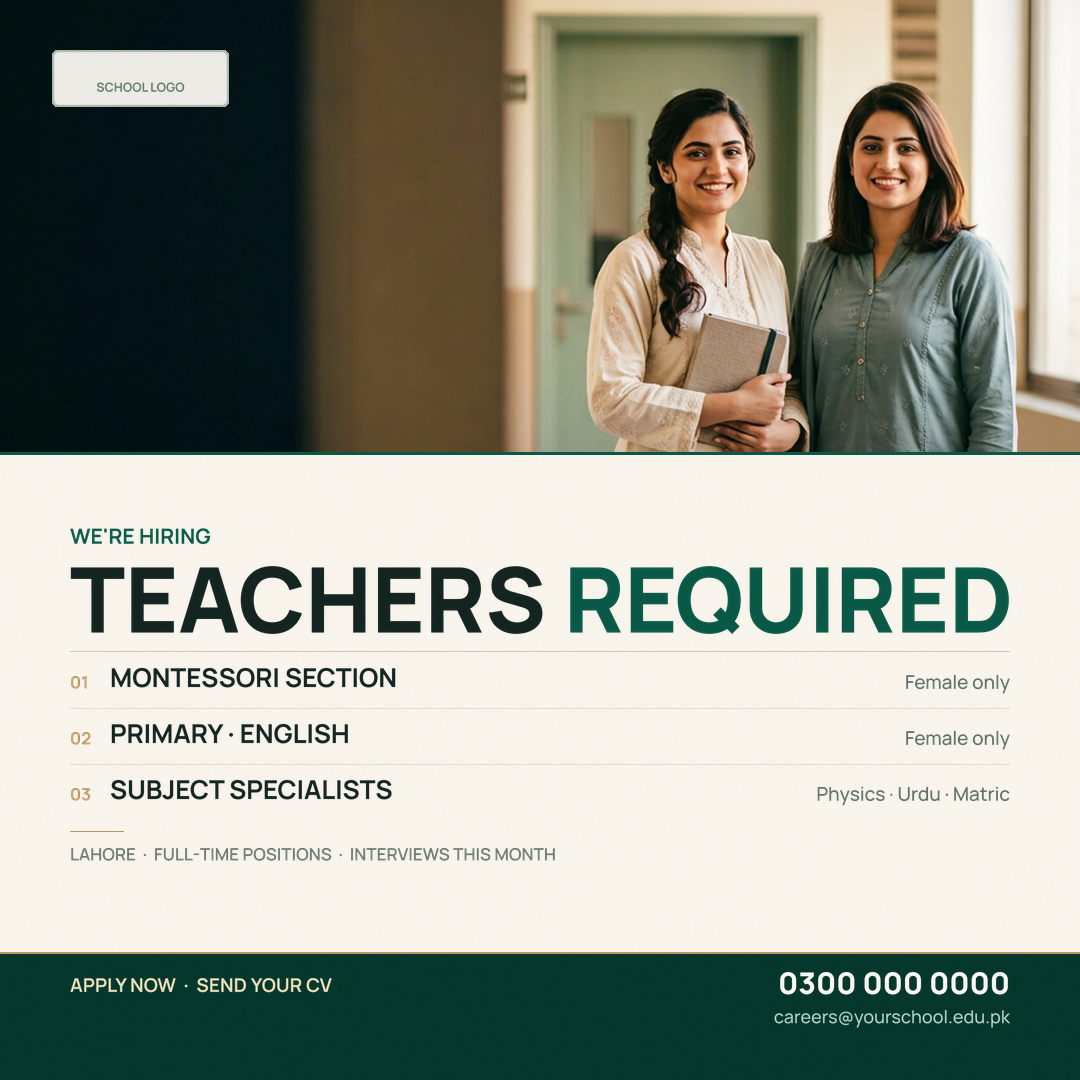
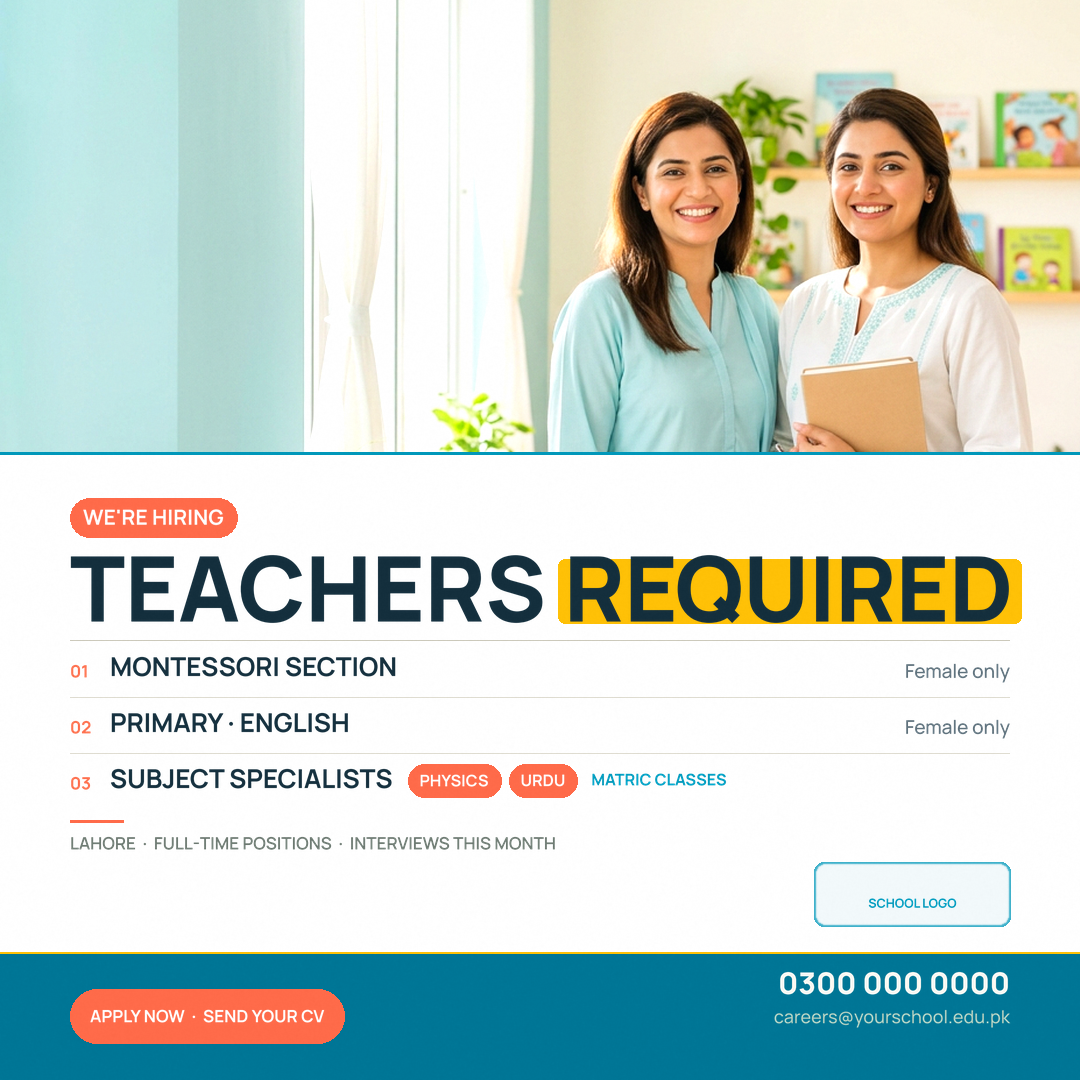
Brighten recruitment ad: high-key photo, teal/coral/sunshine palette, colour-blocked headline
- new sunlit classroom plate (plate_bright.png)
- kicker pill, yellow highlight behind REQUIRED, coral subject chips, CTA button
- deferred shape painting so pills follow the centred copy

diff --git a/posters/hiring_v4.py b/posters/hiring_v4.py
@@ -12,22 +12,25 @@ import render as R
 import typography as T
 
 HERE = os.path.dirname(os.path.abspath(__file__))
-OUT = os.path.join(HERE, "hiring_v2")
+OUT = os.path.join(HERE, "hiring")
 
-CREAM = (0.976, 0.961, 0.930)
-INK = (0.078, 0.145, 0.129)
-EMERALD = (0.039, 0.349, 0.278)
-EMERALD_DEEP = (0.023, 0.216, 0.176)
-MUTED = (0.365, 0.427, 0.396)
-GOLD = (0.729, 0.596, 0.380)
-FOOT_CREAM = (0.898, 0.847, 0.702)
+WHITE = (1.000, 1.000, 1.000)          # panel field
+INK = (0.078, 0.184, 0.239)            # deep navy-ink, high contrast
+TEAL = (0.000, 0.596, 0.729)           # primary brand teal
+TEAL_DEEP = (0.000, 0.463, 0.588)      # footer strip
+CORAL = (1.000, 0.420, 0.290)          # accent / numbers
+SUN = (1.000, 0.757, 0.027)            # highlight yellow
+MUTED = (0.361, 0.435, 0.478)          # secondary text
+FOOT_WHITE = (1.000, 1.000, 1.000)
 
 F7, F8, F6, F5 = ("Manrope-700.ttf", "Manrope-800.ttf",
                   "Manrope-600.ttf", "Manrope-500.ttf")
 
 ROLES = [("01", "MONTESSORI SECTION", "Female only"),
          ("02", "PRIMARY · ENGLISH", "Female only"),
-         ("03", "SUBJECT SPECIALISTS", "Physics · Urdu · Matric")]
+         ("03", "SUBJECT SPECIALISTS", None)]
+SUBJECT_CHIPS = ["PHYSICS", "URDU"]
+SCOPE = "MATRIC"
 
 KICKER = "WE'RE HIRING"
 H1, H2 = "TEACHERS", "REQUIRED"
@@ -39,7 +42,7 @@ CTA = "APPLY NOW  ·  SEND YOUR CV"
 
 # ---------------------------------------------------------------------------
 def backdrop(W, H, square, anchor_y=0.30):
-    im = Image.open(os.path.join(HERE, "plate_wide.png")).convert("RGB")
+    im = Image.open(os.path.join(HERE, "plate_bright.png")).convert("RGB")
     pw, ph = im.size
     scale = max(W / pw, H / ph)
     im = im.resize((int(pw * scale + 1), int(ph * scale + 1)), Image.LANCZOS)
@@ -48,17 +51,15 @@ def backdrop(W, H, square, anchor_y=0.30):
     oy = int((nh - H) * anchor_y)
     im = im.crop((ox, oy, ox + W, oy + H))
     a = np.asarray(im).astype(np.float32) / 255.0
-    # grade: cool emerald shadows, warm highlights
+    # bright, airy grade: lift exposure, add a touch of warmth and saturation
     lum = a @ np.array([0.299, 0.587, 0.114], np.float32)
-    sh = np.clip(1 - lum * 2.1, 0, 1)[:, :, None]
-    hi = np.clip((lum - 0.66) * 2.2, 0, 1)[:, :, None]
-    a = a * (1 - sh * 0.20) + np.array(EMERALD_DEEP, np.float32) * sh * 0.20
-    a = R.screen(a, np.array([1.0, 0.95, 0.85], np.float32) * hi * 0.12)
-    # vignette
-    xs = np.linspace(0, 1, W, dtype=np.float32)[None, :, None]
-    ys = np.linspace(0, 1, H, dtype=np.float32)[:, None, None]
-    d = np.sqrt(((xs - 0.62) ** 2) * 1.1 + ((ys - 0.36) ** 2))
-    a = a * (1 - np.clip(d - 0.40, 0, 2) ** 1.6 * 0.42)
+    a = a * 1.055 + 0.012                                  # exposure
+    a = np.clip(a, 0, 1)
+    hi = np.clip((lum - 0.72) * 2.0, 0, 1)[:, :, None]
+    a = R.screen(a, np.array([1.0, 0.97, 0.90], np.float32) * hi * 0.22)
+    # gentle saturation boost
+    g = a.mean(axis=2, keepdims=True)
+    a = np.clip(g + (a - g) * 1.14, 0, 1)
     return a
 
 
@@ -108,20 +109,20 @@ def build(W, H, square):
     photo_h = int((452 if square else 596) * s)
 
     band = backdrop(W, photo_h, square, anchor_y=0.34)
-    img = np.ones((H, W, 3), np.float32) * np.array(CREAM, np.float32)
+    img = np.ones((H, W, 3), np.float32) * np.array(WHITE, np.float32)
     img[:photo_h] = band
 
     card_x, card_y = 0, photo_h
     card_w, card_h = W, foot_top - photo_h
 
     # ---------------- cream panel ----------------
-    img[card_y:foot_top] = np.array(CREAM, np.float32)
+    img[card_y:foot_top] = np.array(WHITE, np.float32)
     # emerald keyline where the photo meets the panel
-    img[card_y:card_y + max(1, int(3.0 * s))] = np.array(EMERALD, np.float32)
+    img[card_y:card_y + max(1, int(3.0 * s))] = np.array(TEAL, np.float32)
 
     # ---------------- footer strip ----------------
-    img[foot_top:H] = np.array(EMERALD_DEEP, np.float32)
-    img[foot_top:foot_top + max(1, int(2.2 * s))] = np.array(GOLD, np.float32)
+    img[foot_top:H] = np.array(TEAL_DEEP, np.float32)
+    img[foot_top:foot_top + max(1, int(2.2 * s))] = np.array(SUN, np.float32)
 
     # ---------------- geometry ----------------
     pad = (34 if square else 40) * s
@@ -144,6 +145,11 @@ def build(W, H, square):
 
     items = []
     deco = []   # (y, x0, x1, thickness, colour) drawn after centring
+    deferred = []   # (x, y, w, h, r, rgb) rounded fills that follow the copy
+
+    def dfr(x, y, w, h, r, rgb):
+        deferred.append((x, y, w, h, r, rgb))
+        return round_rect_mask(W, H, (x, y, w, h), r)  # for preview only
 
     def add(txt, font, size, x, top=None, align="left", color=INK,
             tracking=0.0, group="panel"):
@@ -155,32 +161,42 @@ def build(W, H, square):
         items.append({"p": p, "color": color, "group": group})
         return p.get_extents()
 
-    # ---- kicker ----
-    kb = add(KICKER, F7, kick_sz, cx, top=top, color=EMERALD, tracking=7.5 * s)
+    # ---- kicker in a coral pill ----
+    kw = T.text_path(KICKER, F7, kick_sz, x=0, baseline=0,
+                     tracking=7.5 * s)[1]
+    pill_h = kick_sz * 1.86
+    pill_pad = 20 * s
+    dfr(cx, top - pill_h * 0.34, kw + pill_pad * 1.30, pill_h, pill_h / 2, CORAL)
+    kb = add(KICKER, F7, kick_sz, cx + pill_pad * 0.65,
+             top=top - pill_h * 0.34 + (pill_h - kick_sz * 0.735) / 2,
+             color=(1, 1, 1), tracking=7.5 * s)
 
-    # ---- logo badge sits on the photograph, top-right ----
-    logo_w, logo_h = (176 if square else 190) * s, (56 if square else 60) * s
-    lb_x, lb_y = M - 4 * s, M - 6 * s
-    box = round_rect_mask(W, H, (lb_x, lb_y, logo_w, logo_h), 5 * s)
-    img = img * (1 - box[:, :, None] * 0.94) + \
-        np.array((0.988, 0.978, 0.952), np.float32) * box[:, :, None] * 0.94
-    inner = round_rect_mask(W, H, (lb_x + 1.6 * s, lb_y + 1.6 * s,
-                                   logo_w - 3.2 * s, logo_h - 3.2 * s), 4 * s)
+    # ---- logo card, bottom-right of the white panel ----
+    logo_w, logo_h = (196 if square else 212) * s, (64 if square else 70) * s
+    lb_x, lb_y = W - M - 14 * s - logo_w, foot_top - logo_h - 26 * s
+    box = round_rect_mask(W, H, (lb_x, lb_y, logo_w, logo_h), 10 * s)
+    img = img * (1 - box[:, :, None] * 1.0) + \
+        np.array((0.949, 0.976, 0.984), np.float32) * box[:, :, None] * 1.0
+    inner = round_rect_mask(W, H, (lb_x + 1.8 * s, lb_y + 1.8 * s,
+                                   logo_w - 3.6 * s, logo_h - 3.6 * s), 9 * s)
     edge = np.clip(box - R.gaussian(inner, 0.7), 0, 1)
-    img = img * (1 - edge[:, :, None] * 0.55) + \
-        np.array((0.42, 0.52, 0.46), np.float32) * edge[:, :, None] * 0.55
+    img = img * (1 - edge[:, :, None] * 0.75) + \
+        np.array(TEAL, np.float32) * edge[:, :, None] * 0.75
     lab = T.text_path(LOGO_LAB, F7, 12.5 * s, x=0, baseline=0,
                       tracking=2.8 * s)[0].get_extents()
     add(LOGO_LAB, F7, 12.5 * s, lb_x + (logo_w - lab.width) / 2,
         top=lb_y + logo_h / 2 - (lab.y0 + lab.y1) / 2,
-        color=(0.40, 0.48, 0.43), tracking=2.8 * s, group="logo")
+        color=TEAL, tracking=2.8 * s, group="logo")
 
     # ---- single-line headline ----
-    hy = kb.y1 + 22 * s
+    hy = kb.y1 + 30 * s
     w1 = T.text_path(H1 + " ", F8, head_sz, x=0, baseline=0,
                      tracking=-3.0 * s)[1]
+    w2 = T.text_path(H2, F8, head_sz, x=0, baseline=0,
+                     tracking=-3.0 * s)[1]
+    dfr(cx + w1 - 6 * s, hy + adv * 0.055, w2 + 14 * s, adv * 0.90, 7 * s, SUN)
     hb = add(H1, F8, head_sz, cx, top=hy, color=INK, tracking=-3.0 * s)
-    hb2 = add(H2, F8, head_sz, cx + w1, top=hy, color=EMERALD,
+    hb2 = add(H2, F8, head_sz, cx + w1, top=hy, color=INK,
               tracking=-3.0 * s)
 
     # ---- hairline ----
@@ -191,10 +207,30 @@ def build(W, H, square):
     ry += 16 * s
     for i, (num, name, tag) in enumerate(ROLES):
         add(num, F7, (17 if square else 18.5) * s, cx, top=ry + 8 * s,
-            color=GOLD, tracking=0.8 * s)
-        add(name, F7, lab_sz, cx + 40 * s, top=ry, color=INK, tracking=0.2 * s)
-        add(tag, F5, tag_sz, W - M - 14 * s, top=ry + 7 * s,
-            color=MUTED, align="right")
+            color=CORAL, tracking=0.8 * s)
+        nb = add(name, F7, lab_sz, cx + 40 * s, top=ry, color=INK,
+                 tracking=0.2 * s)
+        if tag:
+            add(tag, F5, tag_sz, W - M - 14 * s, top=ry + 7 * s,
+                color=MUTED, align="right")
+        else:
+            # "SUBJECT SPECIALISTS" + coral chips + scope, chips hug the label
+            chip_sz = (16 if square else 17) * s
+            chip_h = chip_sz * 2.05
+            cxp = nb.x1 + 16 * s
+            for label in SUBJECT_CHIPS:
+                tw = T.text_path(label, F7, chip_sz, x=0, baseline=0,
+                                 tracking=1.8 * s)[1]
+                cw = tw + 24 * s
+                chy = ry + lab_sz * 0.735 / 2 - chip_h / 2 + 2 * s
+                dfr(cxp, chy, cw, chip_h, chip_h / 2, CORAL)
+                add(label, F7, chip_sz, cxp + 12 * s,
+                    top=chy + (chip_h - chip_sz * 0.735) / 2,
+                    color=(1, 1, 1), tracking=1.8 * s)
+                cxp += cw + 8 * s
+            add(SCOPE + " CLASSES", F7, chip_sz, cxp + 6 * s,
+                top=ry + lab_sz * 0.735 / 2 - chip_sz * 0.735 / 2 + 1 * s,
+                color=TEAL, tracking=1.6 * s)
         ry += row_h
         if i < len(ROLES) - 1:
             deco.append((ry - 15 * s, cx, cx + inner_w, 1.0 * s,
@@ -205,12 +241,21 @@ def build(W, H, square):
     nb = add("LAHORE  ·  FULL-TIME POSITIONS  ·  INTERVIEWS THIS MONTH",
              F6, (17 if square else 18.5) * s, cx, top=note_y,
              color=(0.42, 0.47, 0.44), tracking=3.0 * s)
-    deco.append((note_y - 16 * s, cx, cx + 54 * s, 1.2 * s, GOLD))
+    deco.append((note_y - 16 * s, cx, cx + 54 * s, 3.4 * s, CORAL))
 
     # ---- footer copy ----
-    add(CTA, F7, (19 if square else 21) * s, M + 14 * s,
-        top=foot_top + (26 if square else 30) * s,
-        color=FOOT_CREAM, tracking=2.4 * s, group="foot")
+    cta_sz = (17 if square else 19) * s
+    cta_w = T.text_path(CTA, F7, cta_sz, x=0, baseline=0,
+                        tracking=2.2 * s)[1]
+    btn_h = (54 if square else 58) * s
+    btn_x = M + 14 * s
+    btn_y = foot_top + (foot_h - btn_h) / 2
+    bp = round_rect_mask(W, H, (btn_x, btn_y, cta_w + 40 * s, btn_h),
+                         btn_h / 2)
+    img = img * (1 - bp[:, :, None]) + np.array(CORAL, np.float32) * bp[:, :, None]
+    add(CTA, F7, cta_sz, btn_x + 20 * s,
+        top=btn_y + btn_h / 2 - cta_sz * 0.735 / 2,
+        color=(1, 1, 1), tracking=2.2 * s, group="foot")
     add(PHONE, F8, (30 if square else 34) * s, W - M - 14 * s,
         top=foot_top + (20 if square else 24) * s,
         color=(0.988, 0.976, 0.949), align="right", group="foot")
@@ -222,9 +267,13 @@ def build(W, H, square):
     panel = [it for it in items if it.get("group") == "panel"]
     content0 = panel[0]["p"].get_extents().y0          # kicker cap top
     content1 = panel[-1]["p"].get_extents().y1         # note baseline area
-    dy = (card_y + card_h * 0.485) - (content0 + content1) / 2
+    dy = (card_y + card_h * 0.455) - (content0 + content1) / 2
     for it in panel:
         it["p"].vertices[:, 1] += dy
+
+    for (x, y, w, h, r, rgb) in deferred:
+        m = round_rect_mask(W, H, (x, y + dy, w, h), r)[:, :, None]
+        img = img * (1 - m) + np.array(rgb, np.float32) * m
 
     for (y, x0, x1, th, col) in deco:
         yy = int(y + dy)

diff --git a/posters/hiring/README.md b/posters/hiring/README.md
@@ -1,7 +1,7 @@
 # Meta ads — teacher recruitment (Montessori / Primary / Matric)
 
 Design v2 — light editorial direction: full-bleed staff photo, cream notice
-panel, emerald contact strip. Generated by `posters/hiring_v3.py` from
+panel, emerald contact strip. Generated by `posters/hiring_v4.py` from
 `posters/plate_wide.png`.
 
 ## Files
@@ -16,11 +16,11 @@ quality 95 with 4:4:4 subsampling so the fine type stays sharp.
 
 ## Clearance built into the design
 
-- **Top-left logo badge (≈176 × 56):** a light cream plate sitting on the dark
-  wall of the photo — high contrast, nothing behind it to fight with. Drop the
-  logo in and delete the "SCHOOL LOGO" guide text.
-- **Emerald footer strip:** phone and email placeholders on the right, "Apply
-  now" call to action on the left.
+- **Logo card (≈196 × 64), bottom-right of the white panel:** pale blue plate
+  with a teal keyline, clear of the copy. Drop your logo in and delete the
+  "SCHOOL LOGO" guide text.
+- **Teal footer strip:** phone and email on the right, coral "Apply now" button
+  on the left.
 - Meta removed the `<20%` text rule from its auction in 2021, so the
   headline-led design is safe.
 
@@ -32,7 +32,7 @@ quality 95 with 4:4:4 subsampling so the fine type stays sharp.
 | `0300 000 0000` | bottom-right, top line | your WhatsApp / admissions number |
 | `careers@yourschool.edu.pk` | bottom-right, second line | your hiring email |
 
-Edit the constants at the top of `posters/hiring_v3.py` (`ROLES`, `PHONE`,
+Edit the constants at the top of `posters/hiring_v4.py` (`ROLES`, `PHONE`,
 `EMAIL`, `CTA`) and re-run:
 
 ```bash
@@ -63,3 +63,17 @@ python posters/hiring_v3.py
 
 Note: "Female only" for the Montessori/Primary roles reflects the school's
 requirement as briefed. It is stated plainly on the creative for clarity.
+
+## Palette (bright)
+
+| Role | Colour |
+| --- | --- |
+| Panel field | pure white `#FFFFFF` |
+| Headline ink | deep navy-ink `#142F3D` |
+| Brand teal | `#0098BA` (logo keyline, footer strip `#007696`) |
+| Accent coral | `#FF6B4A` (kicker pill, subject chips, CTA button) |
+| Highlight | sunshine yellow `#FFC107` (behind "REQUIRED") |
+| Secondary text | slate `#5C6F7A` |
+
+Change the colour constants at the top of `posters/hiring_v4.py` to re-skin the
+whole ad — every shape, chip and button derives from them.
